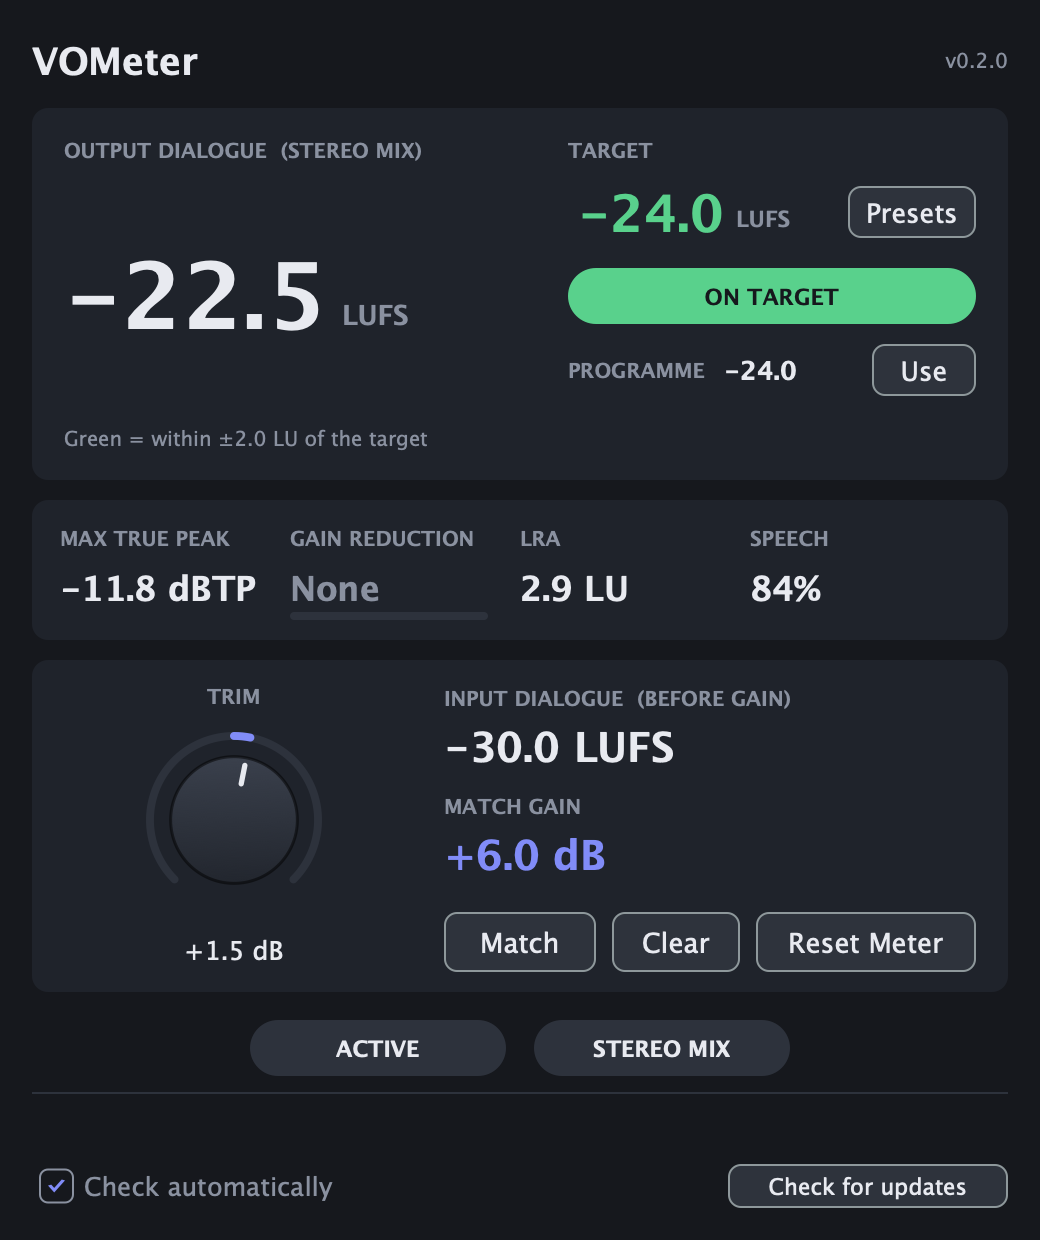
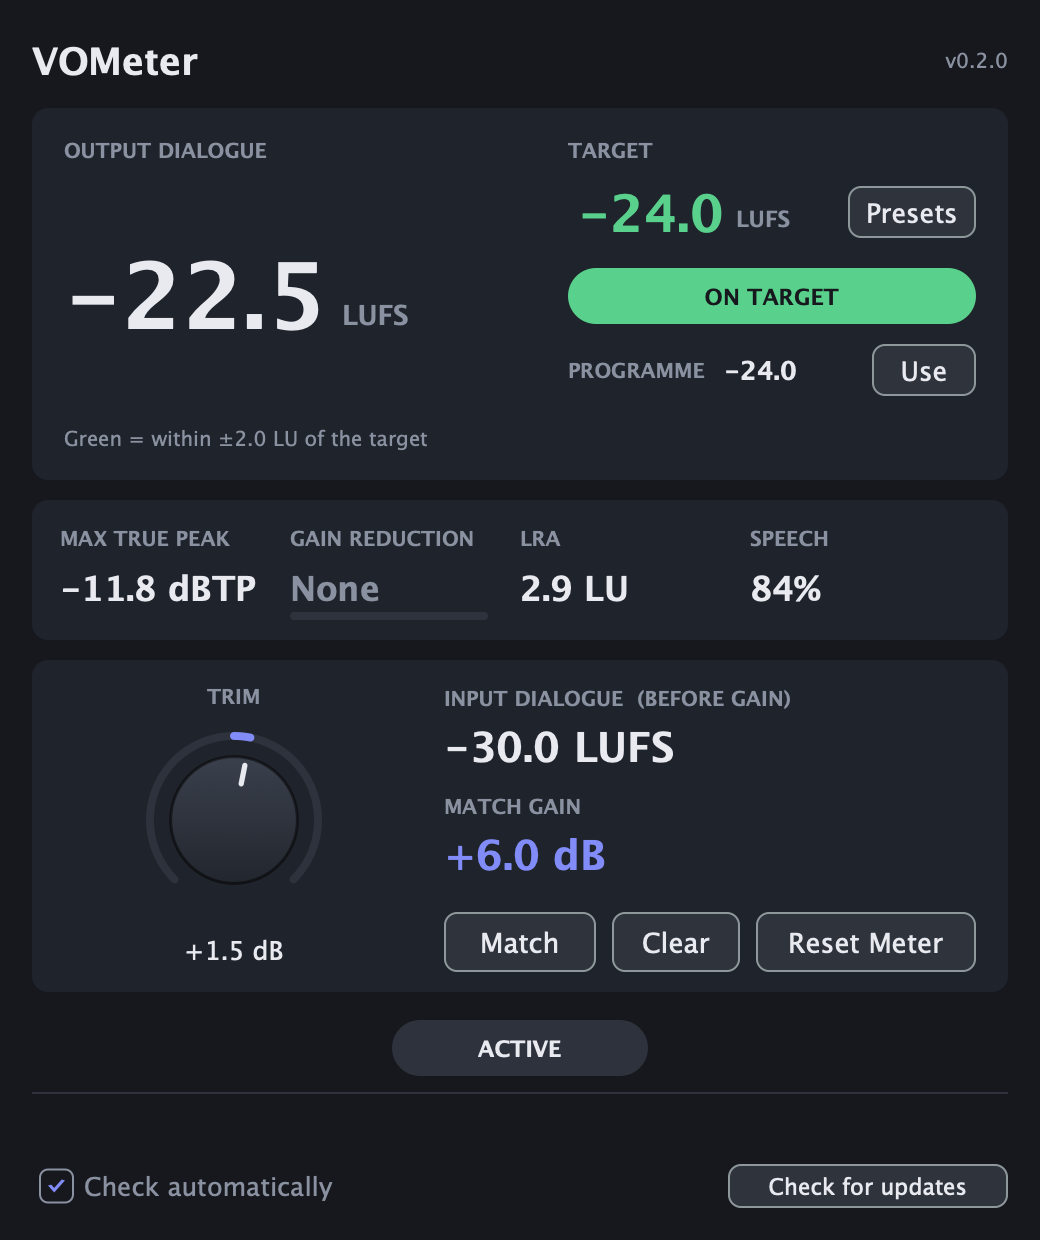
Ask once whether the mix is stereo or 5.1 instead of a switch and label
On a mono track a one-time question covers the window until answered; the
answer is saved with the session and can be changed in the Presets menu.
The STEREO MIX pill and the readout tag are gone.

Changed region(s): [[0.4615, 0.7968, 0.7692, 0.8887], [0.2154, 0.7968, 0.4, 0.8887], [0.2769, 0.0919, 0.4, 0.1226]]

diff --git a/Source/PluginEditor.cpp b/Source/PluginEditor.cpp
@@ -39,8 +39,7 @@ VOMeterEditor::VOMeterEditor (VOMeterProcessor& p)
       targetAttachment (*p.apvts.getParameter (VOMeterProcessor::targetId),
                         [this] (float v) { targetLabel.setText (juce::String (v, 1), juce::dontSendNotification); repaint(); }),
       trimAttachment (p.apvts, VOMeterProcessor::trimId, trimKnob),
-      bypassAttachment (p.apvts, VOMeterProcessor::bypassId, bypassButton),
-      mixAttachment (p.apvts, VOMeterProcessor::mixId, mixButton)
+      bypassAttachment (p.apvts, VOMeterProcessor::bypassId, bypassButton)
 {
     setLookAndFeel (&lnf);
 
@@ -99,11 +98,12 @@ VOMeterEditor::VOMeterEditor (VOMeterProcessor& p)
     bypassButton.setTooltip ("Bypass the trim and limiter (also linked to your DAW's bypass).");
     addAndMakeVisible (bypassButton);
 
-    brand::makePill (mixButton, "STEREO MIX", "5.1 MIX");
-    mixButton.setTooltip ("Mono track only. Stereo mix: readings are given as heard in a stereo mix, 3 dB above "
-                          "the mono track on its own (centre pan, both channels at unity), so the target is the "
-                          "programme's own. 5.1 mix: the narration is in the centre channel alone, no offset.");
-    addChildComponent (mixButton);
+    addChildComponent (mixQuestion);
+    mixQuestion.onAnswer = [this] (bool fiveOne)
+    {
+        audioProcessor.setMixFormat (fiveOne);
+        mixQuestion.setVisible (false);
+    };
 
     addAndMakeVisible (footer);
 
@@ -159,11 +159,23 @@ void VOMeterEditor::showPresetMenu()
         menu.addItem (i + 1, utf8 (pr.name), true, std::abs (current - pr.lufs) < 0.05f);
     }
 
+    // Mono tracks: how the narration is heard (asked once, changeable here).
+    constexpr int stereoId = 101, fiveOneId = 102;
+    if (audioProcessor.isMonoTrack())
+    {
+        const bool fiveOne = audioProcessor.isFiveOneMix();
+        menu.addSectionHeader ("Mix");
+        menu.addItem (stereoId, "Stereo mix (mono narration reads +3 dB)", true, ! fiveOne);
+        menu.addItem (fiveOneId, "5.1 mix (centre channel, no offset)", true, fiveOne);
+    }
+
     menu.showMenuAsync (juce::PopupMenu::Options().withTargetComponent (presetButton),
                         [this] (int result)
                         {
                             if (result >= 1 && result <= (int) std::size (presets))
                                 targetAttachment.setValueAsCompleteGesture (presets[result - 1].lufs);
+                            else if (result == 101 || result == 102)
+                                audioProcessor.setMixFormat (result == 102);
                         });
 }
 
@@ -185,11 +197,11 @@ void VOMeterEditor::timerCallback()
     progLufs = r.programmeDialogue.load();
     progSignal = r.programmeSignal.load();
     matchDb = audioProcessor.apvts.getRawParameterValue (VOMeterProcessor::matchId)->load();
-    mixOffset = r.mixOffsetDb.load();
-    if (mixButton.isVisible() != audioProcessor.isMonoTrack())
+    const bool ask = audioProcessor.isMonoTrack() && ! audioProcessor.isMixFormatChosen();
+    if (mixQuestion.isVisible() != ask)
     {
-        mixButton.setVisible (audioProcessor.isMonoTrack());
-        resized();
+        mixQuestion.setVisible (ask);
+        if (ask) mixQuestion.toFront (false);
     }
     suggested = audioProcessor.getSuggestedMatchDb();
     gr = std::max (r.limiterGr.load(), gr - 1.0f);   // hold, then fall 20 dB/s
@@ -228,8 +240,7 @@ void VOMeterEditor::paint (juce::Graphics& g)
     const float diff = valid ? outLufs - target : 0.0f;
     const bool onTarget = valid && std::abs (diff) <= vometer::kOnTargetLU;
 
-    drawCaption (g, mixOffset > 0.0f ? "OUTPUT DIALOGUE  (STEREO MIX)" : "OUTPUT DIALOGUE",
-                 bigReadout.withHeight (18));
+    drawCaption (g, "OUTPUT DIALOGUE", bigReadout.withHeight (18));
     auto big = bigReadout.withTrimmedTop (18);
     const juce::Font bigFont (juce::FontOptions (54.0f, juce::Font::bold));
     const auto value = valid ? fmt (outLufs) : utf8 (kDash);
@@ -376,18 +387,9 @@ void VOMeterEditor::resized()
     area.removeFromTop (kTitleRowHeight + 10);
 
     footer.setBounds (area.removeFromBottom (brand::footerHeight));
+    mixQuestion.setBounds (getLocalBounds().withBottom (footer.getY() - 6));
     area.removeFromBottom (6);
-    {
-        auto pills = area.removeFromBottom (32);
-        if (mixButton.isVisible())
-        {
-            auto row = pills.withSizeKeepingCentre (130 * 2 + 12, 30);
-            bypassButton.setBounds (row.removeFromLeft (130));
-            mixButton.setBounds (row.removeFromRight (130));
-        }
-        else
-            bypassButton.setBounds (pills.withSizeKeepingCentre (130, 30));
-    }
+    bypassButton.setBounds (area.removeFromBottom (32).withSizeKeepingCentre (130, 30));
     area.removeFromBottom (12);
 
     // Loudness panel

diff --git a/Source/PluginEditor.h b/Source/PluginEditor.h
@@ -12,7 +12,9 @@
 //   stats    - max true peak, limiter gain reduction, LRA, speech share
 //   gain     - Trim knob (your ride; alt-click = 0 dB), input loudness, Match gain,
 //              Match / Clear / Reset Meter
-//   pills    - Bypass, and on mono tracks Stereo mix / 5.1 mix
+//   pills    - Bypass
+// On a mono track, a one-time question ("stereo or 5.1 mix?") covers the body
+// until it's answered; the answer can be changed later in the Presets menu.
 //   footer   - shared UpdateFooter
 // The shared look, plus a bipolar knob for the trim: sliders with the "bipolar"
 // property draw their value arc from 12 o'clock (0 dB) instead of from the start.
@@ -67,6 +69,57 @@ public:
     }
 };
 
+// The one-time "stereo or 5.1 mix?" question for mono tracks.
+class MixQuestion : public juce::Component
+{
+public:
+    std::function<void (bool fiveOne)> onAnswer;
+
+    MixQuestion()
+    {
+        for (auto* b : { &stereo, &fiveOne })
+        {
+            b->setColour (juce::TextButton::buttonColourId, brand::track);
+            b->setColour (juce::TextButton::textColourOffId, brand::textMain);
+            addAndMakeVisible (*b);
+        }
+        stereo.setColour (juce::TextButton::buttonColourId, brand::accent);
+        stereo.setColour (juce::TextButton::textColourOffId, brand::bg);
+        stereo.onClick = [this] { if (onAnswer) onAnswer (false); };
+        fiveOne.onClick = [this] { if (onAnswer) onAnswer (true); };
+    }
+
+    void paint (juce::Graphics& g) override
+    {
+        g.fillAll (brand::bg.withAlpha (0.9f));
+        g.setColour (brand::panel);
+        g.fillRoundedRectangle (card.toFloat(), 10.0f);
+        auto r = card.reduced (24, 22);
+        g.setColour (brand::textMain);
+        g.setFont (juce::FontOptions (20.0f, juce::Font::bold));
+        g.drawText ("Is this mix stereo or 5.1?", r.removeFromTop (28), juce::Justification::centred);
+        r.removeFromTop (8);
+        g.setColour (brand::textDim);
+        g.setFont (juce::FontOptions (13.0f));
+        g.drawFittedText ("A mono narration measures 3 dB louder in a stereo mix than in a 5.1 centre channel. "
+                          "VOMeter reads it the way your mix will, so you can use the programme's own target. "
+                          "You can change this later in the Presets menu.",
+                          r.removeFromTop (76), juce::Justification::centredTop, 5);
+    }
+
+    void resized() override
+    {
+        card = getLocalBounds().withSizeKeepingCentre (std::min (420, getWidth() - 20), 210);
+        auto row = card.reduced (24, 22).removeFromBottom (36).withSizeKeepingCentre (2 * 150 + 16, 36);
+        stereo.setBounds (row.removeFromLeft (150));
+        fiveOne.setBounds (row.removeFromRight (150));
+    }
+
+private:
+    juce::TextButton stereo { "Stereo mix" }, fiveOne { "5.1 mix" };
+    juce::Rectangle<int> card;
+};
+
 class VOMeterEditor : public juce::AudioProcessorEditor, private juce::Timer
 {
 public:
@@ -89,12 +142,13 @@ private:
     juce::Slider trimKnob;
     juce::TextButton matchButton { "Match" }, clearMatchButton { "Clear" }, resetButton { "Reset Meter" };
     juce::TextButton useProgrammeButton { "Use" };
-    juce::ToggleButton bypassButton { "Bypass" }, mixButton { "Mix" };
+    juce::ToggleButton bypassButton { "Bypass" };
+    MixQuestion mixQuestion;
     UpdateFooter footer;
 
     juce::ParameterAttachment targetAttachment;
     juce::AudioProcessorValueTreeState::SliderAttachment trimAttachment;
-    juce::AudioProcessorValueTreeState::ButtonAttachment bypassAttachment, mixAttachment;
+    juce::AudioProcessorValueTreeState::ButtonAttachment bypassAttachment;
 
     // Areas laid out in resized(), painted in paint().
     juce::Rectangle<int> loudPanel, bigReadout, targetCaption, statusArea, programmeArea, hintArea;
@@ -103,7 +157,6 @@ private:
     // Snapshot of the processor's readings, refreshed by the timer.
     float outLufs = NAN, inLufs = NAN, lra = NAN, tp = -INFINITY, gr = 0.0f, suggested = NAN;
     float speechSec = 0.0f, measuredSec = 0.0f, matchDb = 0.0f, progLufs = NAN;
-    float mixOffset = 0.0f;
     bool measuring = false, trimMoved = false, matchMoved = false, progSignal = false, resetPending = false;
 
     JUCE_DECLARE_NON_COPYABLE_WITH_LEAK_DETECTOR (VOMeterEditor)

diff --git a/Tests/TestHost.cpp b/Tests/TestHost.cpp
@@ -597,6 +597,47 @@ void testMonoInStereoMix()
     CHECK (std::abs ((inMix - m->readings.mixOffsetDb.load()) + 30.0f) < 0.5f, "the mono track itself should be about -30");
 }
 
+void testMixQuestion()
+{
+    // Promise: a mono track asks "stereo or 5.1 mix?" once; the answer sets the
+    // mix, is saved with the session, and the question doesn't come back. A
+    // stereo track never asks.
+   #if JUCE_LINUX
+    if (juce::SystemStats::getEnvironmentVariable ("DISPLAY", {}).isEmpty())
+        return;
+   #endif
+    auto questionShown = [] (juce::AudioProcessorEditor& e)
+    {
+        for (auto* c : e.getChildren())
+            if (dynamic_cast<MixQuestion*> (c) != nullptr)
+                return c->isVisible();
+        return false;
+    };
+
+    auto mono = makeProcessor (48000.0, 1);
+    CHECK (! mono->isMixFormatChosen(), "a new mono instance hasn't been asked yet");
+    {
+        std::unique_ptr<juce::AudioProcessorEditor> e (mono->createEditor());
+        CHECK (questionShown (*e), "a mono track should ask stereo or 5.1");
+    }
+    mono->setMixFormat (true);
+    CHECK (mono->isMixFormatChosen() && getParam (*mono, VOMeterProcessor::mixId) > 0.5f, "answering 5.1 should set the mix");
+    {
+        std::unique_ptr<juce::AudioProcessorEditor> e (mono->createEditor());
+        CHECK (! questionShown (*e), "the question shouldn't come back once answered");
+    }
+
+    juce::MemoryBlock state;
+    mono->getStateInformation (state);
+    auto reopened = makeProcessor (48000.0, 1);
+    reopened->setStateInformation (state.getData(), (int) state.getSize());
+    CHECK (reopened->isMixFormatChosen(), "the answer should be saved with the session");
+
+    auto stereo = makeProcessor (48000.0, 2);
+    std::unique_ptr<juce::AudioProcessorEditor> e (stereo->createEditor());
+    CHECK (! questionShown (*e), "a stereo track should never ask");
+}
+
 void testBypass()
 {
     // Promise: Bypass gives back the input bit for bit (after the reported
@@ -766,6 +807,7 @@ int main (int argc, char** argv)
     testStateRoundTrip();
     testVersionCompare();
     testEditorAndAltClick();
+    testMixQuestion();
 
     if (failures == 0)
         std::printf ("All VOMeter tests passed.\n");

diff --git a/Tools/RenderScreenshot.cpp b/Tools/RenderScreenshot.cpp
@@ -1,6 +1,6 @@
 // Renders the plugin editor to a PNG without a host, for the README.
 //   cmake -B build -DVO_METER_BUILD_SCREENSHOT_TOOL=ON && cmake --build build --target VOMeterScreenshot
-//   ./build/VOMeterScreenshot_artefacts/Release/VOMeterScreenshot docs/screenshot.png
+//   ./build/VOMeterScreenshot_artefacts/Release/VOMeterScreenshot docs/screenshot.png [--ask]
 #include <juce_gui_basics/juce_gui_basics.h>
 #include "PluginProcessor.h"
 #include <cstdio>
@@ -65,6 +65,11 @@ int main (int argc, char** argv)
         processor.requestMeterReset();
         play();
     }
+
+    // The README shot shows an answered "stereo or 5.1?" question; --ask shows the question.
+    const bool showQuestion = argc > 2 && juce::String (argv[2]) == "--ask";
+    if (! showQuestion)
+        processor.setMixFormat (false);
 
     std::unique_ptr<juce::AudioProcessorEditor> editor (processor.createEditor());
     editor->setVisible (true);

diff --git a/Source/PluginProcessor.h b/Source/PluginProcessor.h
@@ -87,8 +87,14 @@ public:
     // Sets the target to the programme's dialogue loudness (sidechain).
     bool useProgrammeAsTarget();
 
-    // True when this instance sits on a mono track (the Stereo/5.1 switch matters).
+    // True when this instance sits on a mono track (the Stereo/5.1 choice matters).
     bool isMonoTrack() const noexcept { return getMainBusNumInputChannels() == 1; }
+
+    // Whether the user has answered "stereo or 5.1 mix?" for this instance
+    // (saved with the session). Message thread only.
+    bool isMixFormatChosen() const;
+    bool isFiveOneMix() const noexcept { return mixParam->load() > 0.5f; }
+    void setMixFormat (bool fiveOne);
 
     // Direct access for the test tool (audio thread only).
     const vometer::LoudnessMeter& getMeter() const noexcept { return meter; }

diff --git a/Source/PluginProcessor.cpp b/Source/PluginProcessor.cpp
@@ -263,6 +263,19 @@ void VOMeterProcessor::clearMatch()
     setAsGesture (apvts.getParameter (matchId), 0.0f);
 }
 
+static const juce::Identifier mixChosenProp { "mixChosen" };
+
+bool VOMeterProcessor::isMixFormatChosen() const
+{
+    return apvts.state.getProperty (mixChosenProp, false);
+}
+
+void VOMeterProcessor::setMixFormat (bool fiveOne)
+{
+    setAsGesture (apvts.getParameter (mixId), fiveOne ? 1.0f : 0.0f);
+    apvts.state.setProperty (mixChosenProp, true, nullptr);
+}
+
 bool VOMeterProcessor::useProgrammeAsTarget()
 {
     const float p = readings.programmeDialogue.load();

diff --git a/README.md b/README.md
@@ -27,12 +27,14 @@ as a VST3 on all platforms, plus an AU on macOS.
 
 **Mono narration in a stereo mix.** A mono track panned centre plays in both channels of a
 stereo mix, and BS.1770 then measures it 3 dB louder than the mono track on its own: a
-narration track reading -30 sits at -27 in the mix. On a mono track VOMeter shows a
-**STEREO MIX / 5.1 MIX** switch. In Stereo (the default) every narration reading is given
-as heard in the stereo mix, so you use the programme's own target (-27 for a -27 OV).
-In 5.1 the narration goes to the centre channel alone, so there's no offset. This assumes
-Logic's default pan law, where a centre-panned mono track stays at unity in each channel.
-With the plain "-3 dB" pan law there is no offset, so use 5.1 mode there.
+narration track reading -30 sits at -27 in the mix. In a 5.1 mix it goes to the centre
+channel alone, with no offset. So on a mono track, VOMeter asks once, when you first open it:
+**Is this mix stereo or 5.1?** The answer is saved with the session. From then on every
+narration reading is given as heard in that mix, so you always use the programme's own target
+(-27 for a -27 OV). To change the answer, use the **Mix** section at the bottom of the
+Presets menu. Stereo tracks are never asked, because the answer makes no difference to them.
+The stereo offset assumes Logic's default pan law, where a centre-panned mono track stays at
+unity in each channel. With the plain "-3 dB" pan law there's no offset, so answer 5.1.
 
 **How Logic's side chain works:** a side chain taken from a track is post-insert and
 pre-fader. VOMeter hears the OV after its plug-ins (including VODucker's ducking, hence the
@@ -64,13 +66,12 @@ duck harder; riding the narration fader doesn't.
 
 | Control | What it does |
 |---------|--------------|
-| Target | Dialogue loudness to aim for, -36 to -10 LUFS (default -24). Click the number to type a value, or pick a preset. The menu is grouped into Broadcast: -23 (EBU R128) and -24 (ATSC A/85); Streaming: -27 (Netflix dialogue); and Online: -16 (Apple Podcasts) and -14 (Spotify / YouTube). Shown in green when the output is within ±2 LU of it. |
+| Target | Dialogue loudness to aim for, -36 to -10 LUFS (default -24). Click the number to type a value, or pick a preset. The menu is grouped into Broadcast: -23 (EBU R128) and -24 (ATSC A/85); Streaming: -27 (Netflix dialogue); and Online: -16 (Apple Podcasts) and -14 (Spotify / YouTube). On mono tracks it also has a Mix section (Stereo / 5.1). Shown in green when the output is within ±2 LU of it. |
 | Use | Sets the target to the programme's dialogue loudness from the side chain |
 | Match | Sets the **Match gain** (up to ±24 dB) so the narration lands on the target with the trim at 0 dB. It never touches the trim. |
 | Clear | Sets the Match gain back to 0 dB |
 | Trim | Your ride on top of the Match gain, -18 to +18 dB (default 0). Automatable. **Alt-click** (or double-click) resets it to 0 dB. |
 | Reset Meter | Clears every reading, including the programme's. It doesn't touch the trim, Match gain or target. |
-| Stereo mix / 5.1 mix | Mono tracks only: read the narration as heard in a stereo mix (+3 dB) or in a 5.1 centre channel (no offset) |
 | Bypass | Click-free bypass, also linked to your DAW's bypass. It is latency-compensated, so the output is bit-for-bit the input. |
 
 | Readout | Meaning |
